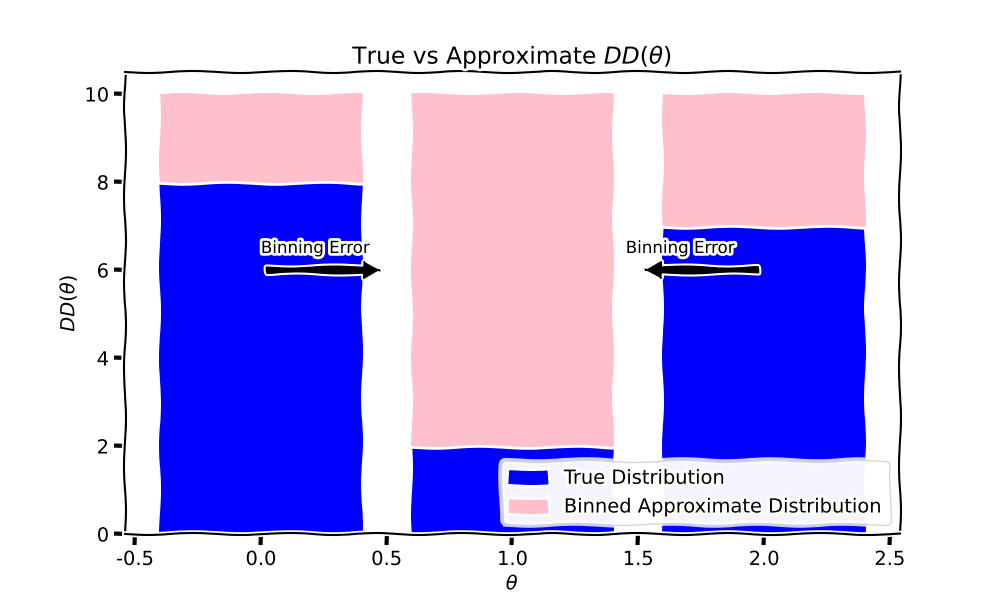
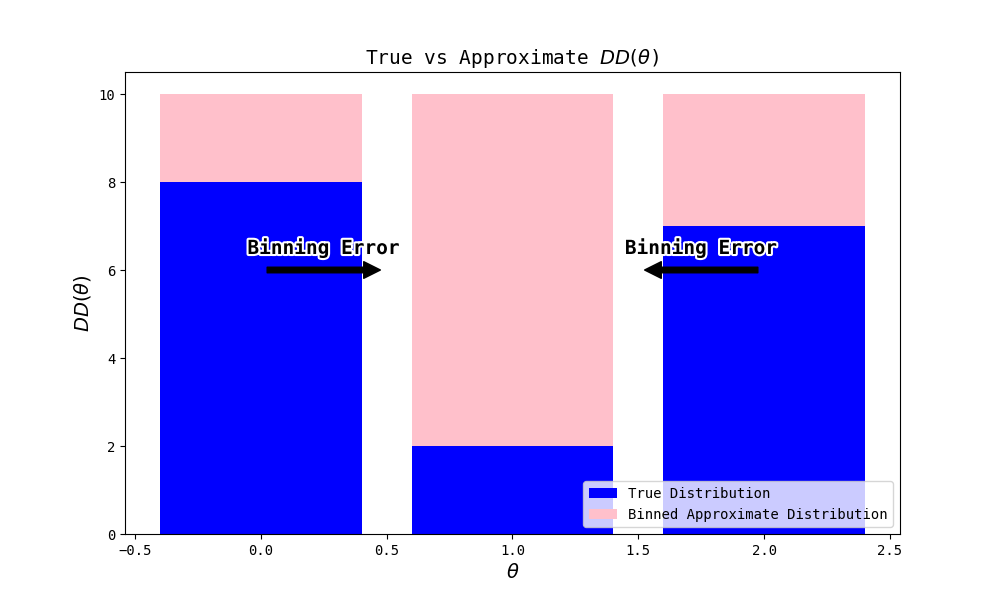
updating toy plots

diff --git a/assets/toy.py b/assets/toy.py
@@ -1,4 +1,5 @@
 import matplotlib.pyplot as plt
+import matplotlib.patheffects as path_effects
 import numpy as np
 
 # Data for the histogram
@@ -10,7 +11,8 @@ red_data = np.array([2, 8, 3])
 x = np.arange(bar_count)
 
 # Use the xkcd plotting style
-plt.xkcd()
+#plt.xkcd()
+plt.rc('font', family='monospace')
 
 plt.figure(figsize=(10, 6))
 
@@ -19,9 +21,9 @@ plt.bar(x, blue_data, color='blue', label='True Distribution')
 plt.bar(x, red_data, bottom=blue_data, color='pink', label='Binned Approximate Distribution')
 
 # Adding labels and title
-plt.xlabel(r'$\theta$')
-plt.ylabel(r'$DD(\theta)$')
-plt.title(r'True vs Approximate $DD(\theta$)')
+plt.xlabel(r'$\theta$', fontsize=14)
+plt.ylabel(r'$DD(\theta)$', fontsize=14)
+plt.title(r'True vs Approximate $DD(\theta$)', fontsize=14)
 
 # Adding a legend
 plt.legend(loc='lower right')
@@ -31,7 +33,18 @@ plt.annotate('', xy=(0.5, 6), xytext=(0, 6),
              arrowprops=dict(facecolor='black', shrink=0.05))
 plt.annotate('', xy=(1.5, 6), xytext=(2, 6),
              arrowprops=dict(facecolor='black', shrink=0.05))
-plt.text(0.0, 6.5, "Binning Error", fontsize=12, verticalalignment='center')
-plt.text(1.45, 6.5, "Binning Error", fontsize=12, verticalalignment='center')
+
+def add_outlined_text(x, y, text, fontsize=14):
+    t = plt.text(x, y, text, fontsize=fontsize, fontweight='bold', color='black',
+                 verticalalignment='center', horizontalalignment='center')
+    t.set_path_effects([path_effects.Stroke(linewidth=3, foreground='white'),
+                        path_effects.Normal()])
+    return t
+
+add_outlined_text(0.25, 6.5, "Binning Error")
+add_outlined_text(1.75, 6.5, "Binning Error")
+
+#plt.text(0.0, 6.5, "Binning Error", fontsize=12, verticalalignment='center', fontweight='bold')
+#plt.text(1.45, 6.5, "Binning Error", fontsize=12, verticalalignment='center', fontweight='bold')
 # Show the plot
 plt.savefig('toy.png')
